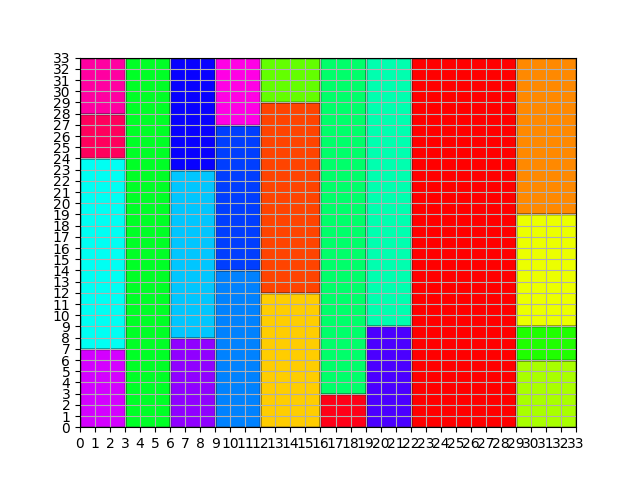
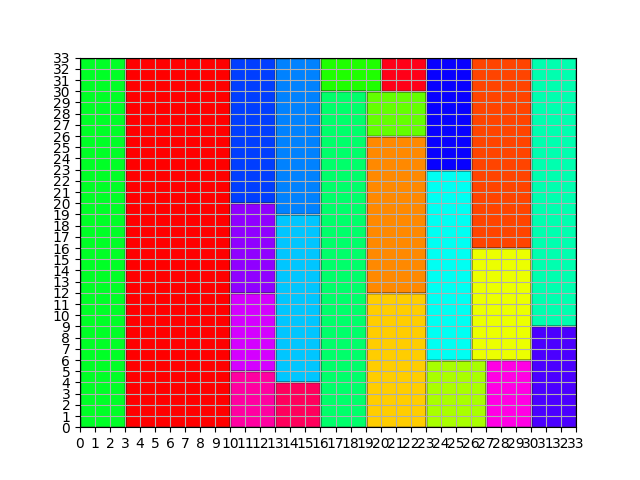
Final mip results

diff --git a/MIP/solve_mip.py b/MIP/solve_mip.py
@@ -52,9 +52,9 @@ def solve_instance(instance: VLSI_Instance, output_folder : Path = Path(__file__
         m = gp.Model("vlsi", env=env)
     
     # Focus on proving optimality
-    #m.setParam(gp.GRB.Param.MIPFocus, 1)
+    #m.setParam(gp.GRB.Param.MIPFocus, 2)
     
-    # No symmetry detection
+    # Max symmetry detection
     #m.setParam(gp.GRB.Param.Symmetry, 2)
 
     #m.setParam(gp.GRB.Param.Disconnected, 0)
@@ -111,7 +111,7 @@ def solve_instance(instance: VLSI_Instance, output_folder : Path = Path(__file__
             m.addConstr(or_out==1)
             
     # Cumulative constraints
-    
+    # Horizontal cumulative
     for i in range(ub):
         and_variables =[]
         for j in range(instance.n_circuits):
@@ -126,7 +126,7 @@ def solve_instance(instance: VLSI_Instance, output_folder : Path = Path(__file__
         m.addConstr(gp.quicksum(
             and_variables[j]*instance.get_c_width(j) for j in range(instance.n_circuits))<=instance.max_width)
 
-    
+    # Vertical cumulative
     for i in range(instance.max_width):
         and_variables = []
         for j in range(instance.n_circuits):
@@ -140,13 +140,14 @@ def solve_instance(instance: VLSI_Instance, output_folder : Path = Path(__file__
             and_variables.append(andv)
         m.addConstr(gp.quicksum(
             and_variables[j]*instance.get_c_height(j) for j in range(instance.n_circuits))<= makespan)       
+    # Big rectangles
     
     bitvecs_w = [[m.addVar(vtype=gp.GRB.BINARY) for j in range(instance.max_width)]for i in range(instance.n_circuits)]
     for i, el in enumerate(bitvecs_w):
         for j in range(instance.max_width):
             ind2 = m.addVars(2, vtype=gp.GRB.BINARY)
             m.addGenConstrIndicator(ind2[0], True, j >= corner_x[i])
-            m.addGenConstrIndicator(ind2[1], True, j <= corner_x[i]+instance.get_c_height(i))
+            m.addGenConstrIndicator(ind2[1], True, j <= corner_x[i]+instance.get_c_width(i))
             
             m.addGenConstrAnd(el[j], ind2)
     
